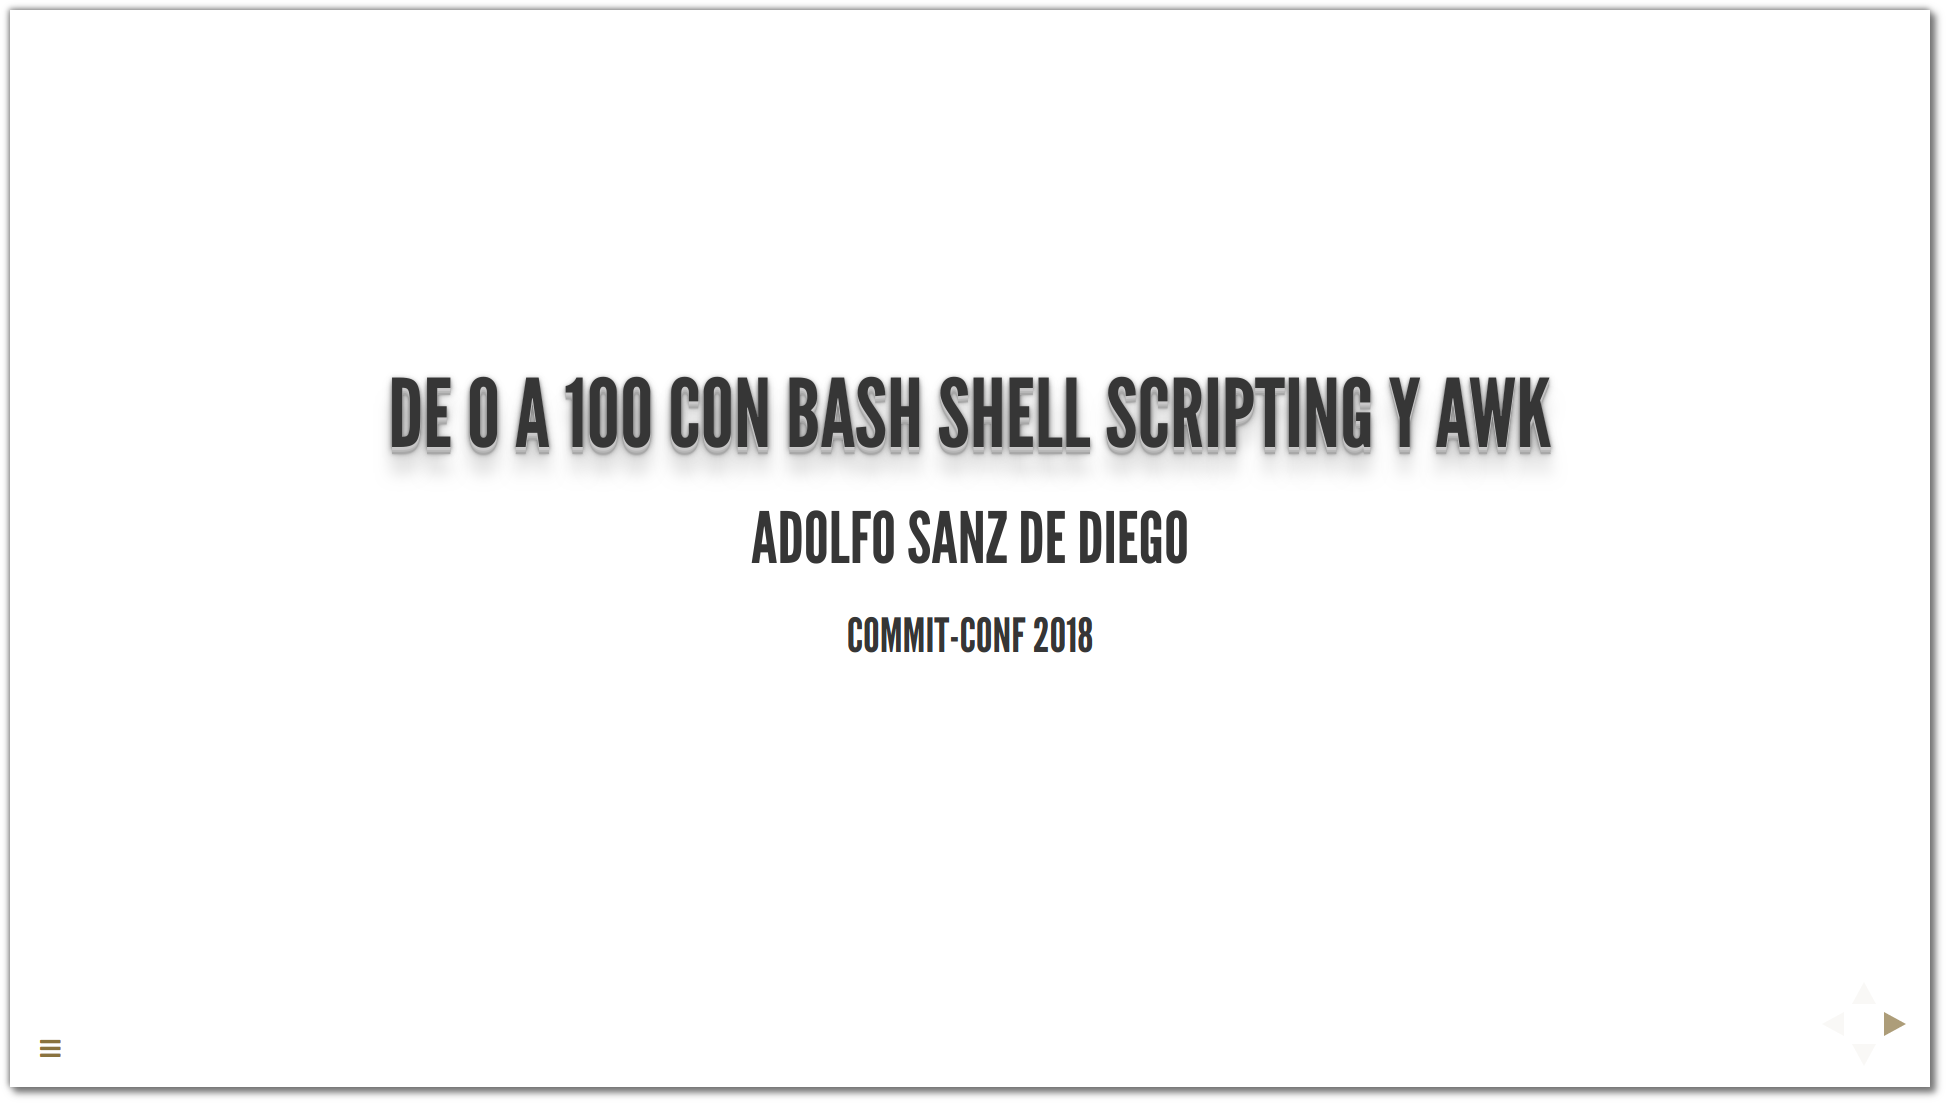
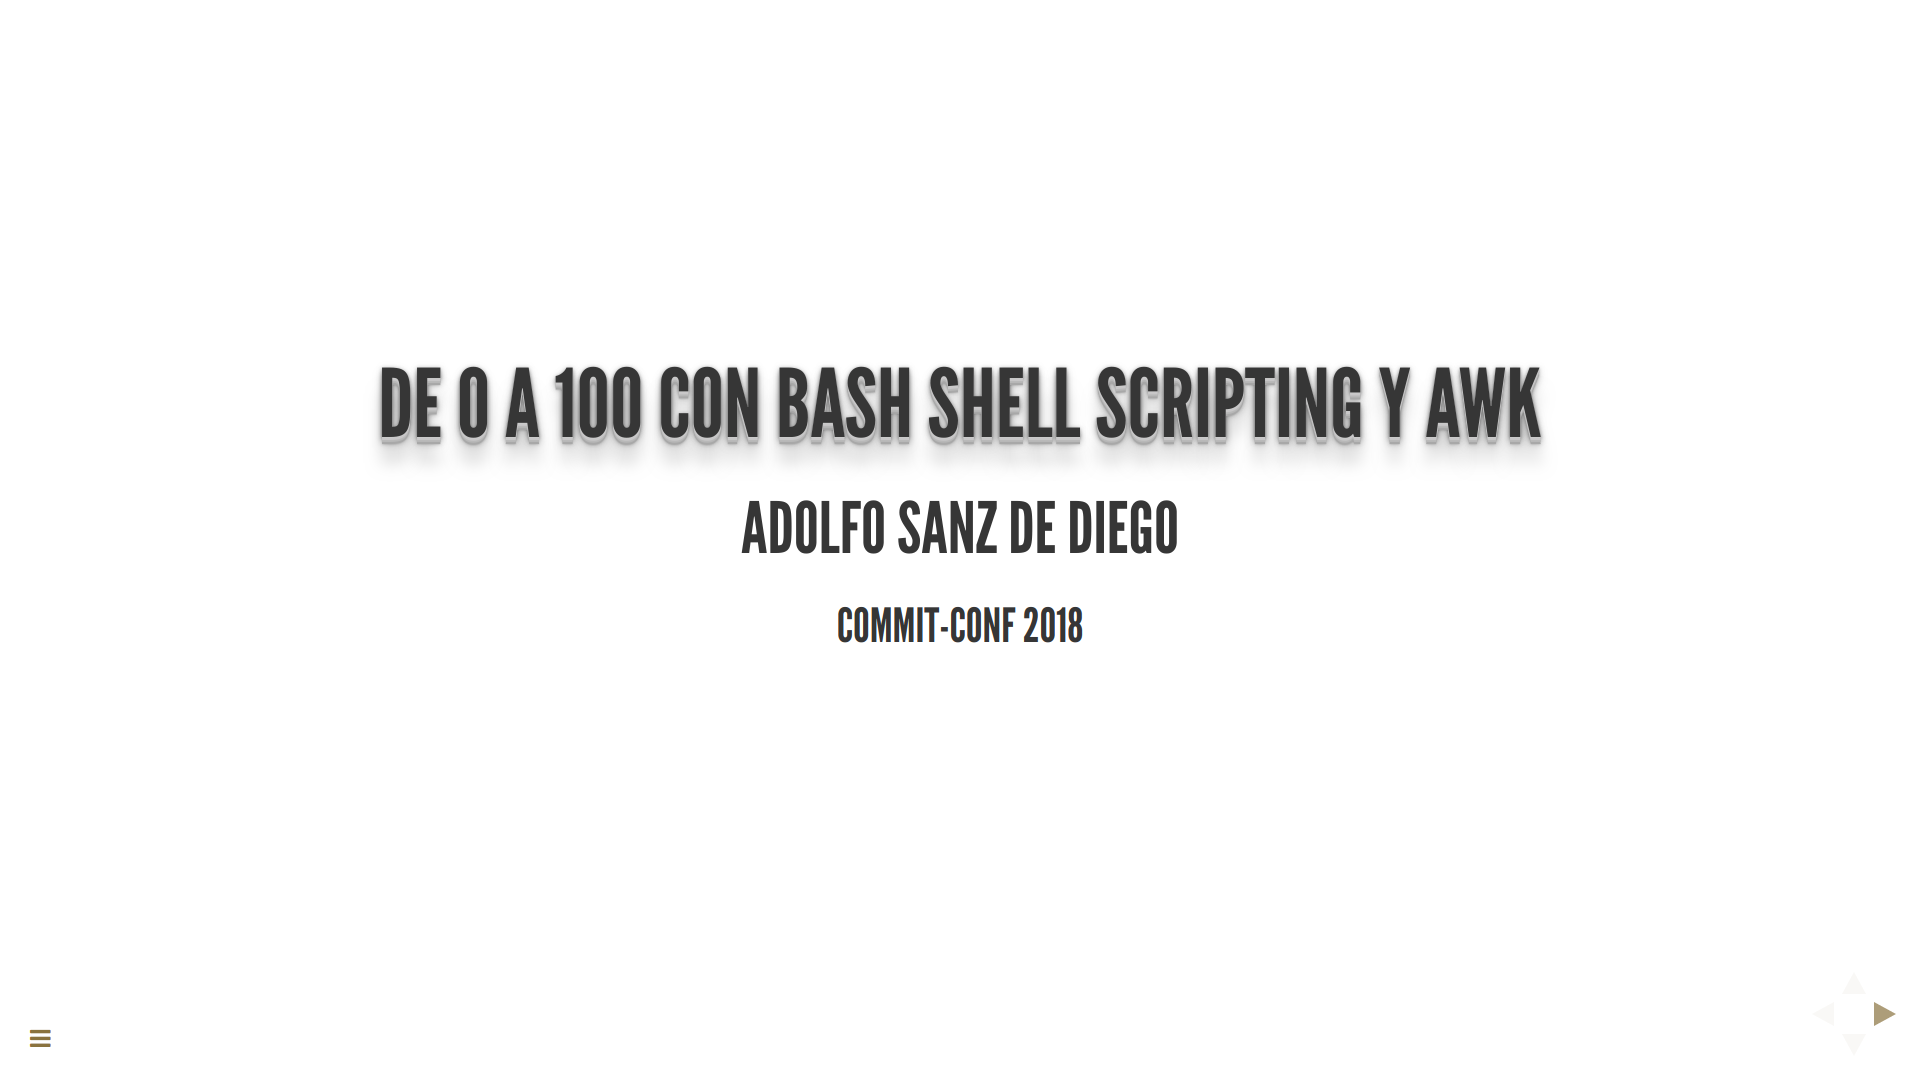
añadidas imágenes con sombra

diff --git a/README.md b/README.md
@@ -16,40 +16,40 @@ Originalmente es un taller que presenté en el [t3chfest](https://t3chfest.uc3m.
 
 <https://asanzdiego.github.io/commit-conf-charla-shell-script-y-awk/>
 
-![](./slides/img/slides.png)
+![](./slides/img/slides-sombra.png)
 
 ## Plantilla de Bash Shell Script
 
 [resources/template.sh](https://github.com/asanzdiego/commit-conf-charla-shell-script-y-awk/blob/master/resources/template.sh)
 
-![](./slides/img/template.png)
+![](./slides/img/template-sombra.png)
 
 ## Chuleta de Bash Shell Script
 
 [resources/chuleta-shell-script.pdf](https://github.com/asanzdiego/commit-conf-charla-shell-script-y-awk/blob/master/resources/chuleta-shell-script.pdf)
 
-![](./slides/img/chuleta-shell-script.png)
+![](./slides/img/chuleta-shell-script-sombra.png)
 
 ## ShellCheck, el lint de Bash Shell Script
 
 <https://github.com/koalaman/shellcheck>
 
-![](./slides/img/shellcheck-a-shell-script-static-analysis-tool.png)
+![](./slides/img/shellcheck-a-shell-script-static-analysis-tool-sombra.png)
 
 ## Guía de estilo de Google de Bash Shell Script
 
 <https://google.github.io/styleguide/shell.xml>
 
-![](./slides/img/google-shell-style-guide.png)
+![](./slides/img/google-shell-style-guide-sombra.png)
 
 ## Tutorial de Bash Shell Script
 
 <https://linuxconfig.org/bash-scripting-tutorial-for-beginners>
 
-![](./slides/img/bash-scripting-tutorial-for-beginners.png)
+![](./slides/img/bash-scripting-tutorial-for-beginners-sombra.png)
 
 ## Tutorial de AWK
 
 <http://www.grymoire.com/Unix/Awk.html>
 
-![](./slides/img/awk-a-tutorial-and-introduction-by-bruce-barnett.png)
+![](./slides/img/awk-a-tutorial-and-introduction-by-bruce-barnett-sombra.png)
